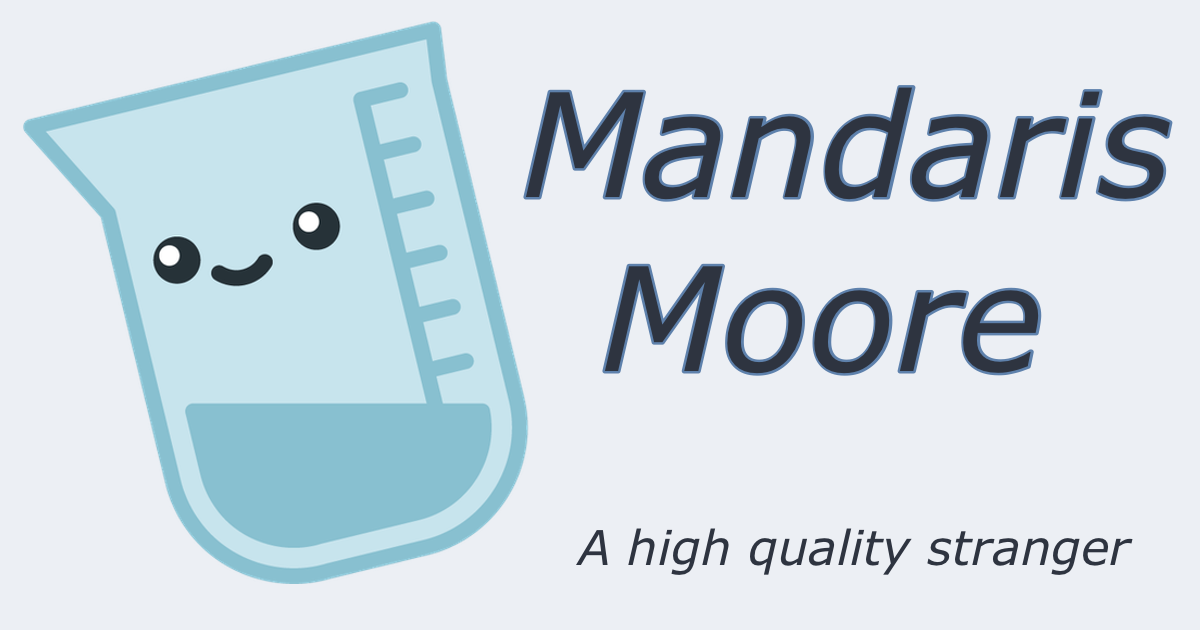
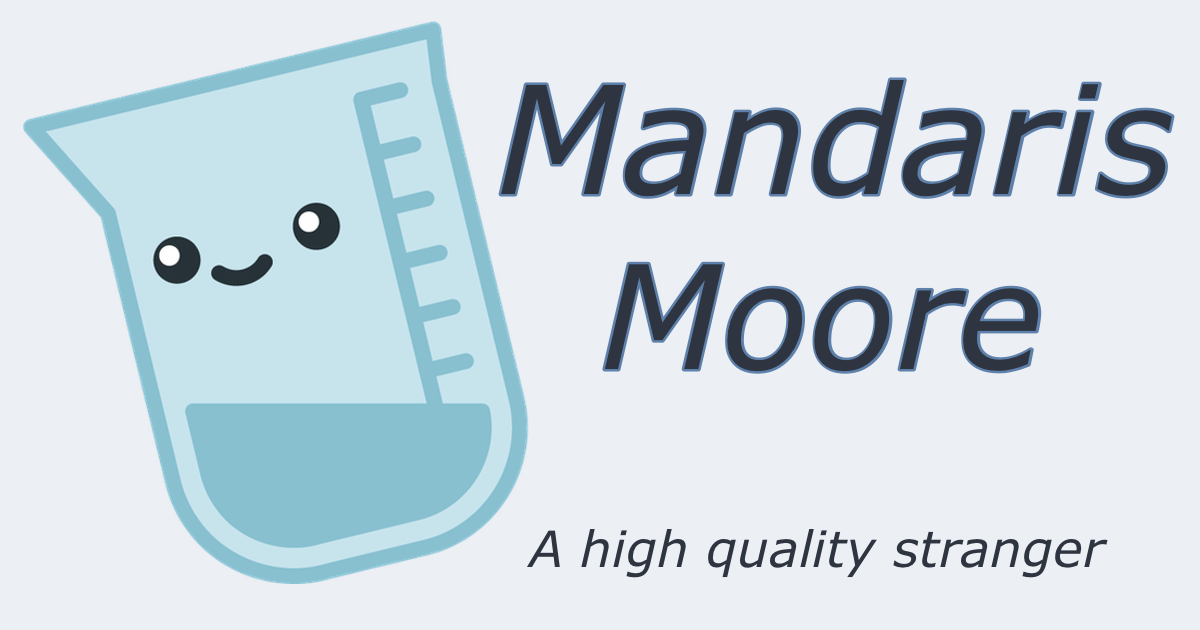
Version 1.3.02
- Adjustments to admonitions/callout code
- Change microformats for author information
- Slight changes to default OpenGraph image

diff --git a/static/css/admonitions.css b/static/css/admonitions.css
@@ -5,40 +5,15 @@
 
 .admonition {
   margin: 1em;
-  padding: 0;
+  border: 2px solid var(--admonition-color);
+  border-left: 6px solid var(--admonition-color);
+  border-right: 3px solid var(--admonition-color);
   border-radius: var(--border-radius, 1rem);
-  box-shadow: 0 1px 3px var(--admonition-color);
+  box-shadow: 0 2px 4px var(--admonition-color);
   transition: all 0.3s ease;
-  
-  border: 1px solid var(--admonition-color);
-  border-left: 5px solid var(--admonition-color);
 }
 
-.admonition-header {
-  padding: 0.5rem;
-  display: flex;
-  align-items: stretch;
 
-  border-bottom: 1px solid rgba(0, 0, 0, 0.1);
-  border-radius: 0 var(--border-radius, 10px) 0 0;
-  color: var(--admonition-color);
-  background: color-mix(in srgb, currentColor, transparent 75%);
-  
-  svg {
-    width: 1.1em;
-    height: 1.1em;
-    margin-right: 0.5rem;
-  }
-
-  h3 {
-    color: var(--text);
-    font-size: large;
-  }
-}
-
-.admonition-content {
-  padding: 0.5rem;
-}
 
 .admonition.notify,
 .admonition.note {
@@ -50,7 +25,7 @@
 }
 
 .admonition.important {
-  --admonition-color: rebeccapurple;
+  --admonition-color: light-dark(rebeccapurple, mediumorchid);
 }
 
 .admonition.idea {
@@ -93,7 +68,7 @@
 }
 
 .admonition.question {
-  --admonition-color: midnightblue;
+  --admonition-color: light-dark(midnightblue, deepskyblue);
 }
 
 .admonition.info {
@@ -101,5 +76,41 @@
 }
 
 .admonition.code {
-  --admonition-color: purple;
+  --admonition-color: green;
+}
+
+.admonition.bug,
+.admonition.fail,
+.admonition.failure,
+.admonition.missing {
+  --admonition-color: red;
+}
+
+
+.admonition-header {
+  padding: 0.3rem;
+  display: flex;
+  align-items: stretch;
+
+  border-radius: 0 var(--border-radius, 1rem) 0 0;
+  /* border-radius: inherit; */
+  color: var(--admonition-color);
+  background: color-mix(in srgb, currentColor, transparent 90%);
+  /* border-bottom: 1px solid currentColor; */
+  /* border-bottom-right-radius: ; */
+  
+  svg {
+    width: 2rem;
+    /* margin-right: 0.5rem; */
+  }
+
+  h3 {
+    color: var(--text);
+    font-size: large;
+  }
+}
+
+.admonition-content {
+  border-top: 1px solid var(--admonition-color);
+  padding: 0.5rem;
 }

diff --git a/layouts/_default/_markup/render-blockquote-alert.html b/layouts/_default/_markup/render-blockquote-alert.html
@@ -1,15 +1,16 @@
+{{- /* Initialize dictionary to store icon mappings */ -}}
 {{- $icons := dict
   "abstract"    "file-description.svg"
+  "bug"         "bug.svg"
   "caution"     "alert-triangle.svg"
+  "cite"        "quote.svg"
   "code"        "code.svg"
   "conclusion"  "file-check.svg"
   "danger"      "alert-square.svg"
-  "error"       "exclamation-circle.svg"
   "example"     "chalkboard.svg"
   "experiment"  "flask.svg"
   "goal"        "target.svg"
   "idea"        "bulb.svg"
-  "important"   "exclamation-circle.svg"
   "info"        "info-circle.svg"
   "memo"        "note.svg"
   "note"        "notes.svg"
@@ -19,8 +20,22 @@
   "success"     "circle-check.svg"
   "task"        "list-check.svg"
   "tip"         "bulb.svg"
-  "warning"     "exclamation-circle.svg"
+  "todo"        "list-check.svg"
 }}
+
+{{- /* Define a list of keys that should share the same icon */ -}}
+{{ $keys := slice "important" "warning" "error" }}
+{{- range $keys }}
+  {{- /* Merge each key into the dictionary with the same icon value */ -}}
+  {{- $icons = merge $icons (dict . "exclamation-circle.svg") }}
+{{- end }}
+
+{{- /* Define a list of keys that should share the same icon */ -}}
+{{ $keys := slice "failure" "fail" "missing" }}
+{{- range $keys }}
+  {{- /* Merge each key into the dictionary with the same icon value */ -}}
+  {{- $icons = merge $icons (dict . "xbox-x.svg") }}
+{{- end }}
 
 
 {{- if eq .Type "alert" }}

diff --git a/layouts/partials/author.html b/layouts/partials/author.html
@@ -1,15 +1,1 @@
-<aside itemprop="author" itemscope itemtype="https://schema.org/Person"
-  class="author | h-card | p-author" 
-  style="display: none;">
-<div class="author-image">
-  <img class="u-photo" loading="lazy" itemprop="image"
-    src="{{ .Site.Params.Author.avatar }}"
-    alt="Profile of {{ .Site.Params.Author.name }}">  
-  <a itemprop="url" href="{{ .Site.BaseURL }}" title="Author's Home Page">
-  <span itemprop="name" class="p-name | text-center">{{ .Site.Params.Author.name }}</span>
-  </a>
-</div>
-  <div class="author-bio | bio | p-note" itemprop="description">
-  {{ .Site.Params.Author.description | safeHTML }}
-  </div>
-</aside>
+<a href="/" class="u-author"></a>

diff --git a/static/css/play-lab.css b/static/css/play-lab.css
@@ -53,7 +53,7 @@
 
   scrollbar-color: var(--accent) var(--background);
 
-
+  color-scheme: light dark;
   color: var(--text);
   accent-color: var(--accent);
   caret-color: aqua;
@@ -428,6 +428,7 @@ a:focus h1 {
 
 p>code,
 li>code,
+dl code,
 kbd,
 samp {
   background-color: var(--background-mid);
@@ -884,6 +885,5 @@ details {
 }
 
 summary {
-  margin-inline-start: 0.5rem;
-  list-style-position: outside;
+  margin-inline-start: 1rem;
 }

diff --git a/README.md b/README.md
@@ -110,3 +110,8 @@ Theme based off of ideas from [Labarum](https://github.com/mandaris/labarum).
 1.3.01
 - Change the OpenGraph image
 - Remove additional trailing slash and wrap row
+
+1.3.02
+- Adjustments to admonitions/callout code
+- Change microformats for author information
+- Slight changes to default OpenGraph image
